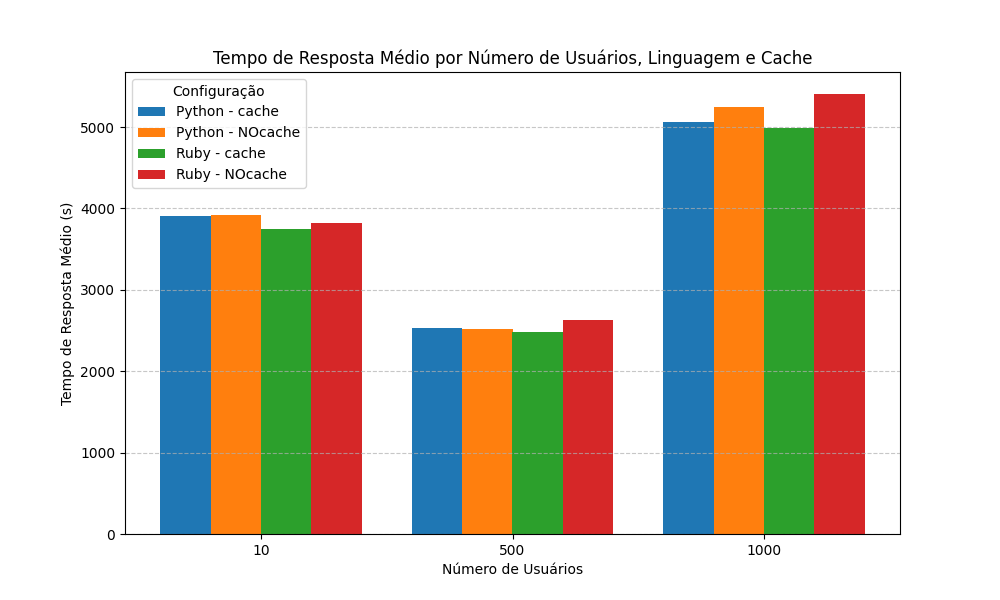
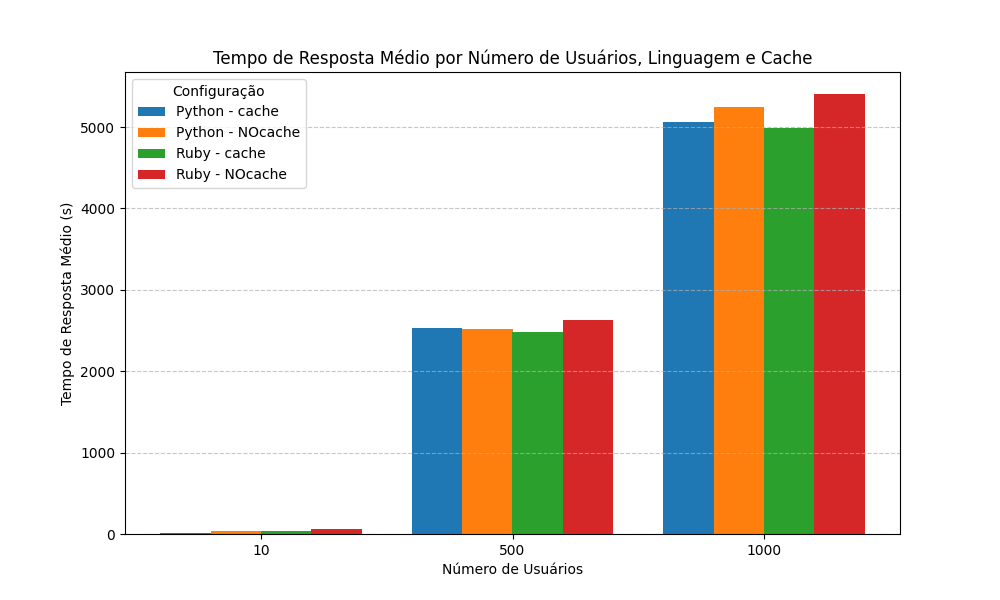
new users 10 csv

Changed region(s): [[0.155, 0.36, 0.372, 0.9]]

diff --git a/locustfile.py b/locustfile.py
@@ -1,50 +1,50 @@
 from locust import HttpUser, TaskSet, task, between
 
-#class LinkExtractorRubyBehavior(TaskSet):
-#    @task(10)
-#  def extract_links(self):
-#       urls = [
-#           "http://localhost/?url=https%3A%2F%2Fwww.amazon.com",
-#           "http://localhost/?url=https%3A%2F%2Fwww.wikipedia.org",
-#           "http://localhost/?url=https%3A%2F%2Fwww.github.com",
-#           "http://localhost/?url=https%3A%2F%2Fwww.stackoverflow.com",
-#           "http://localhost/?url=https%3A%2F%2Fwww.medium.com",
-#           "http://localhost/?url=https%3A%2F%2Fwww.reddit.com",
-#           "http://localhost/?url=https%3A%2F%2Fwww.bbc.com",
-#           "http://localhost/?url=https%3A%2F%2Fwww.cnn.com",
-#           "http://localhost/?url=https%3A%2F%2Fwww.nytimes.com",
-#           "http://localhost/?url=https%3A%2F%2Fwww.linkedin.com"
-#       ]
-#       for url in urls:
-#           self.client.get(url)
+class LinkExtractorRubyBehavior(TaskSet):
+  @task(10)
+  def extract_links(self):
+      urls = [
+          "http://localhost/?url=https%3A%2F%2Fwww.amazon.com",
+          "http://localhost/?url=https%3A%2F%2Fwww.wikipedia.org",
+          "http://localhost/?url=https%3A%2F%2Fwww.github.com",
+          "http://localhost/?url=https%3A%2F%2Fwww.stackoverflow.com",
+          "http://localhost/?url=https%3A%2F%2Fwww.medium.com",
+          "http://localhost/?url=https%3A%2F%2Fwww.reddit.com",
+          "http://localhost/?url=https%3A%2F%2Fwww.bbc.com",
+          "http://localhost/?url=https%3A%2F%2Fwww.cnn.com",
+          "http://localhost/?url=https%3A%2F%2Fwww.nytimes.com",
+          "http://localhost/?url=https%3A%2F%2Fwww.linkedin.com"
+      ]
+      for url in urls:
+          self.client.get(url)
 
 
-class LinkExtractorPythonBehavior(TaskSet):
-     @task(10)
-     def extract_links(self):
-         urls = [
-             "http://localhost/?url=https%3A%2F%2Fwww.amazon.com",
-             "http://localhost/?url=https%3A%2F%2Fwww.wikipedia.org",
-             "http://localhost/?url=https%3A%2F%2Fwww.github.com",
-             "http://localhost/?url=https%3A%2F%2Fwww.stackoverflow.com",
-             "http://localhost/?url=https%3A%2F%2Fwww.medium.com",
-             "http://localhost/?url=https%3A%2F%2Fwww.reddit.com",
-             "http://localhost/?url=https%3A%2F%2Fwww.bbc.com",
-             "http://localhost/?url=https%3A%2F%2Fwww.cnn.com",
-             "http://localhost/?url=https%3A%2F%2Fwww.nytimes.com",
-             "http://localhost/?url=https%3A%2F%2Fwww.linkedin.com"
-         ]
-         for url in urls:
-             self.client.get(url)
+# class LinkExtractorPythonBehavior(TaskSet):
+#      @task(10)
+#      def extract_links(self):
+#          urls = [
+#              "http://localhost/?url=https%3A%2F%2Fwww.amazon.com",
+#              "http://localhost/?url=https%3A%2F%2Fwww.wikipedia.org",
+#              "http://localhost/?url=https%3A%2F%2Fwww.github.com",
+#              "http://localhost/?url=https%3A%2F%2Fwww.stackoverflow.com",
+#              "http://localhost/?url=https%3A%2F%2Fwww.medium.com",
+#              "http://localhost/?url=https%3A%2F%2Fwww.reddit.com",
+#              "http://localhost/?url=https%3A%2F%2Fwww.bbc.com",
+#              "http://localhost/?url=https%3A%2F%2Fwww.cnn.com",
+#              "http://localhost/?url=https%3A%2F%2Fwww.nytimes.com",
+#              "http://localhost/?url=https%3A%2F%2Fwww.linkedin.com"
+#          ]
+#          for url in urls:
+#              self.client.get(url)
 
 
-#class LinkExtractorRubyUser(HttpUser):
-#    tasks = [LinkExtractorRubyBehavior]
-#    wait_time = between(1, 2)
-#    host = "http://localhost:4567"
+class LinkExtractorRubyUser(HttpUser):
+   tasks = [LinkExtractorRubyBehavior]
+   wait_time = between(1, 2)
+   host = "http://localhost:4567"
 
 
-class LinkExtractorPythonUser(HttpUser):
-     tasks = [LinkExtractorPythonBehavior]
-     wait_time = between(1, 2)
-     host = "http://localhost:5000"
+# class LinkExtractorPythonUser(HttpUser):
+#      tasks = [LinkExtractorPythonBehavior]
+#      wait_time = between(1, 2)
+#      host = "http://localhost:5000"
